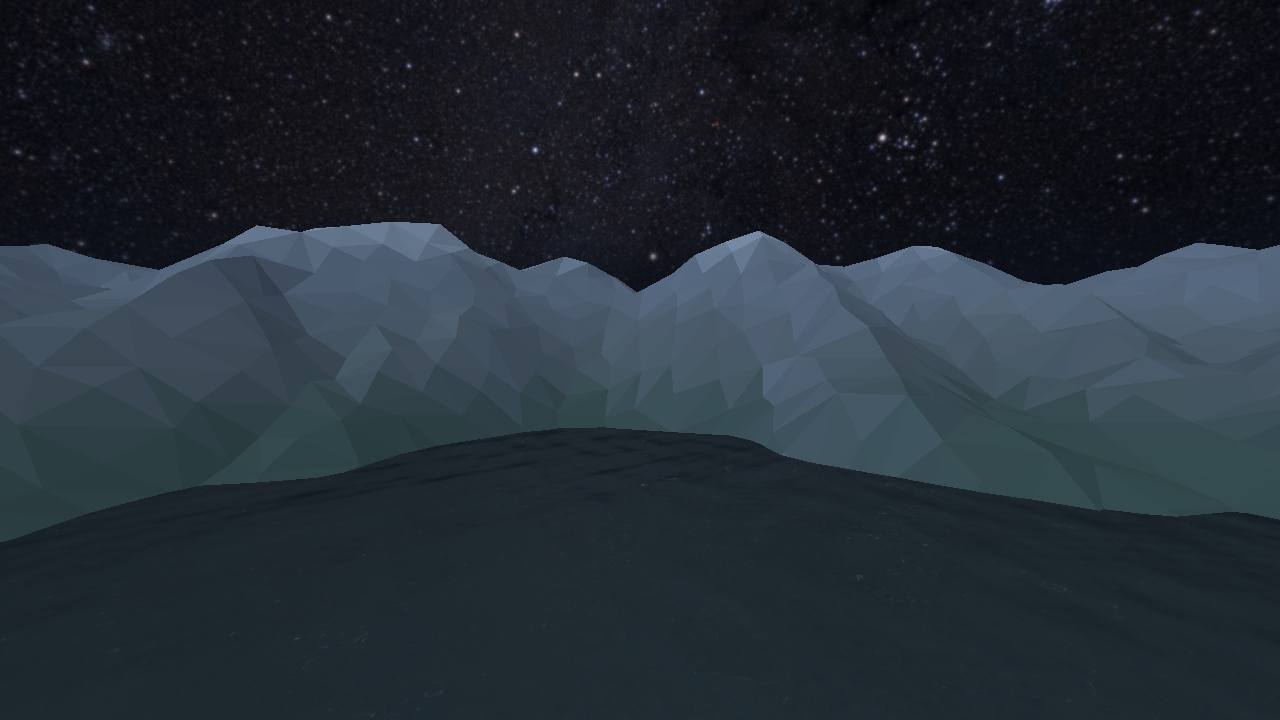
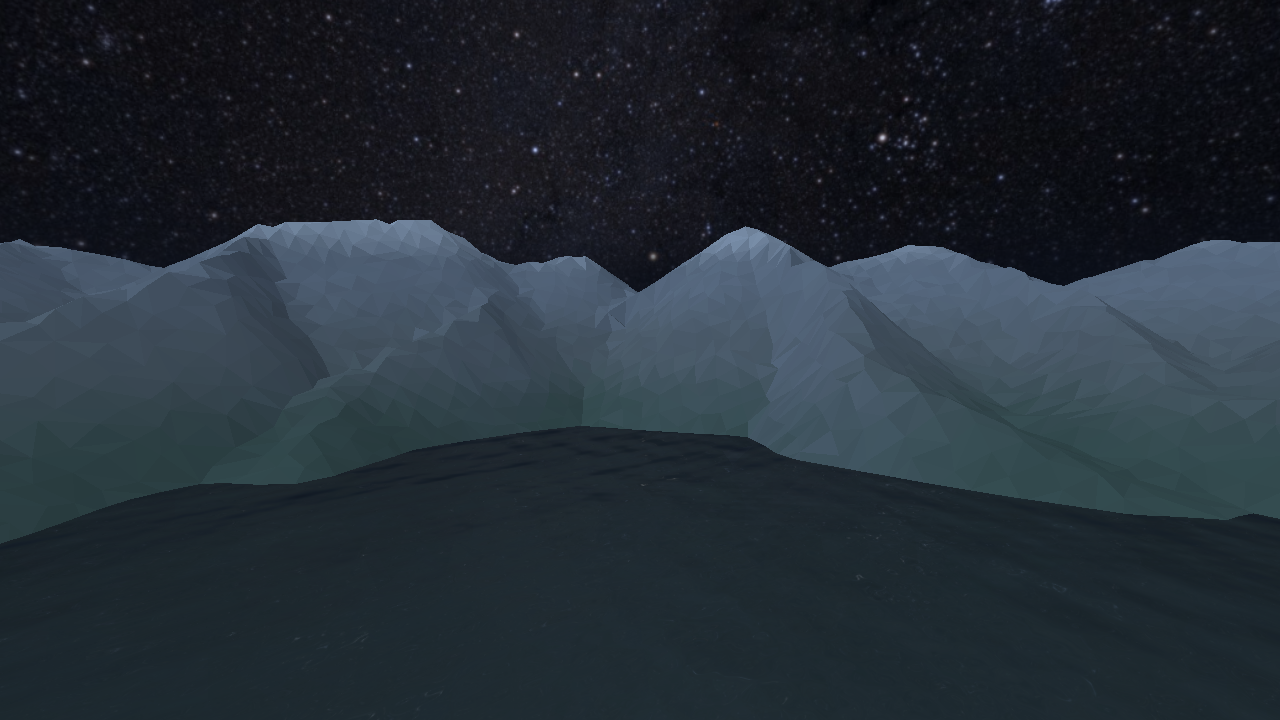
Уточнена low-poly сетка гор

diff --git a/src/Terrain.cpp b/src/Terrain.cpp
@@ -10,8 +10,9 @@ Terrain::Terrain(const std::filesystem::path& heightmap)
     : heights_(heightmap), mesh_(makeMesh(heights_)) {}
 
 Mesh Terrain::makeMesh(const Heightmap& heights) {
-    // Each coarse triangle owns its vertices: normals never blend across edges.
-    constexpr int cells = 128;
+    // Halve the former 4.375-unit cell width for finer mountain silhouettes.
+    // Each triangle still owns its vertices: normals never blend across edges.
+    constexpr int cells = 256;
     constexpr int side = cells + 1;
     const float cellSize = heights.worldSize() / cells;
     std::vector<glm::vec3> points(side * side);

diff --git a/src/Lake.h b/src/Lake.h
@@ -9,8 +9,8 @@ namespace mla {
 
 // Flat water surface filling the carved basin at world::waterLevel.
 //
-// The surface is a subset of the terrain grid: cells far from any submerged
-// sample are dropped, and the ones that remain are left to overlap the shore.
+// An independent, coarser grid samples the same height field: cells far from
+// submerged samples are dropped; the remaining ones overlap the shore.
 // The depth test clips them against the ground, so the shoreline follows the
 // terrain exactly instead of being approximated by the water mesh.
 class Lake {

diff --git a/README.md b/README.md
@@ -34,7 +34,7 @@ The current milestone is the **terrain, lake and starry sky**: a low-poly mounta
 
 - CMake builds GLFW and generated GLAD source locally; GLM and stb_image are bundled as source. No precompiled `.lib` or `.dll` files are needed.
 - OpenGL 3.3 core window, shader and indexed-mesh wrappers, fly camera, and a reusable scene-node hierarchy.
-- A 513×513 grayscale heightmap covering **560×560 world units**, sampled onto a 128×128-cell mesh with **32,768 triangles**. The larger terrain covers sixteen times the area of the initial 140×140 landscape, while coarse 4.375-unit cells preserve the low-poly look.
+- A 513×513 grayscale heightmap covering **560×560 world units**, sampled onto a 256×256-cell mesh with **131,072 triangles**. Cells are 2.1875 units wide, half the previous width, revealing more mountain detail while flat face normals preserve the low-poly look.
 - Connected mountain ridges with uneven crests, elevated saddles, shared flanks and descending spurs. Irregularly spaced interior vertices and varied triangle diagonals preserve the low-poly shapes; each triangle has its own geometric normal for flat shading.
 - Muted green foothills, grey rock and pale summits, coloured per face by height and slope under cool night ambient and directional light.
 - A lake basin carved into the valley floor, flooded to a fixed water level. The 780-triangle water surface covers only the submerged cells and is clipped against the ground by the depth test, so the shoreline follows the terrain exactly.
@@ -208,7 +208,7 @@ comp-graph-final/
 │   ├── Heightmap.h/.cpp  # image samples, height and normal lookup
 │   ├── ImageLoader.cpp   # the single stb_image implementation translation unit
 │   ├── Terrain.h/.cpp    # coarse irregular grid and flat triangle normals
-│   ├── Lake.h/.cpp       # water surface restricted to the submerged terrain cells
+│   ├── Lake.h/.cpp       # independent coarse water grid restricted to the basin
 │   ├── Skybox.h/.cpp     # owning cubemap and cube mesh, image validation
 │   ├── Aurora.h/.cpp     # deferred prototype, excluded from the application build
 │   └── Primitives.h/.cpp # deferred prop geometry, excluded from the application build
@@ -251,7 +251,7 @@ Steps 2, 3 and 4 are implemented, with the terrain, skybox and lake respectively
 
 ### Terrain from a heightmap
 
-The current asset contains 513×513 grayscale samples spanning 560×560 world units. Heights are decoded as `heightOffset + heightScale · I`, where `I` is pixel brightness in `[0, 1]`. The renderer samples this field onto 128×128 cells, with deterministic interior vertex jitter and varied diagonals, producing 32,768 triangles. Each cell remains roughly 4.375 units wide, so the expanded area keeps large, readable facets. The heightmap generator forms mountains along connected ridge lines: crest heights vary through peaks and saddles, while asymmetric flanks and descending spurs connect them into long ranges. Several overlapping ranges provide depth beyond the open central valley.
+The current asset contains 513×513 grayscale samples spanning 560×560 world units. Heights are decoded as `heightOffset + heightScale · I`, where `I` is pixel brightness in `[0, 1]`. The renderer samples this field onto 256×256 cells, with deterministic interior vertex jitter and varied diagonals, producing 131,072 triangles. Each cell is 2.1875 units wide, half the previous 4.375-unit width; triangle count is four times higher. Separate face normals retain readable low-poly facets. The heightmap generator forms mountains along connected ridge lines: crest heights vary through peaks and saddles, while asymmetric flanks and descending spurs connect them into long ranges. Several overlapping ranges provide depth beyond the open central valley.
 
 Vertices are duplicated between triangles, with one geometric normal shared by all three vertices of each face:
 
@@ -302,7 +302,7 @@ The fragment shader adds a dark blue atmosphere and fades the star map into `uFo
 
 The generator carves a lobed bowl into the valley floor and the renderer floods it to `mla::world::waterLevel`, the single constant the generator, the renderer and the tests all read. Nothing stores a shoreline: the lake is wherever the ground is below that height.
 
-The surface reuses the 128×128 terrain grid. A cell is kept when a terrain sample within one cell of it is submerged, which leaves 780 triangles instead of the grid's 32,768, and the kept cells deliberately overrun the shore. Those overlapping quads sit under the ground, so the depth test — the water pass reads depth but writes none — clips them to the exact terrain intersection. The one-cell margin covers the terrain mesh's vertex jitter and sub-cell dips that corner samples alone would miss.
+The surface uses an independent 128×128-cell grid over the same heightmap; the terrain is rendered at 256×256 cells. A water cell is kept when a heightmap sample within one coarse cell of it is submerged, leaving 780 triangles from that water grid's possible 32,768. The kept cells deliberately overrun the shore. Those overlapping quads sit under the ground, so the depth test — the water pass reads depth but writes none — clips them to the terrain intersection. The coarse one-cell margin covers the finer terrain mesh's vertex jitter and sub-cell dips that corner samples alone would miss.
 
 The mesh stays flat and every ripple comes from the fragment shader. Sixteen directional gravity-wave components combine broad undulations, finer wind ripples and weaker crossing waves. Their angular frequencies follow `ωᵢ = sqrt(9.81·kᵢ)`. Slowly advected wind patches vary their strength and gently bend their crests; moving wave-packet envelopes break up uniform bands. A mild second harmonic sharpens the crests. The normal includes the analytic gradients of the envelopes and the bounded phase bend, without displacement or per-frame uploads:
 

diff --git a/docs/ROADMAP.md b/docs/ROADMAP.md
@@ -4,7 +4,7 @@ The README preserves the final project specification. The active scene now inclu
 
 ## Current milestone: terrain, lake and starry sky
 
-The active scene renders the ground, the mountains, the starry sky and the lake. A 513×513 grayscale heightmap spans 560×560 world units, sixteen times the area of the initial landscape. A coarse, irregular 128×128-cell grid produces 32,768 triangles with roughly 4.375-unit cells, preserving the low-poly scale. Connected ridge lines, elevated saddles, asymmetric shared flanks and descending spurs form long mountain ranges around the central valley. Duplicated triangle vertices carry geometric face normals, and flat shader interpolation keeps the muted green/grey/pale colour bands and cool night lighting distinct on each facet.
+The active scene renders the ground, the mountains, the starry sky and the lake. A 513×513 grayscale heightmap spans 560×560 world units, sixteen times the area of the initial landscape. An irregular 256×256-cell grid produces 131,072 triangles with 2.1875-unit cells, half the previous cell width and four times the triangle count. Connected ridge lines, elevated saddles, asymmetric shared flanks and descending spurs form long mountain ranges around the central valley. Deterministic vertex jitter and varied diagonals break up the grid. Duplicated triangle vertices carry geometric face normals, and flat shader interpolation preserves the low-poly style and distinct muted colour bands on each facet.
 
 Smooth fog fades distant terrain from 95 to 230 units from the camera. An additional world-space fog band reaches the blue night haze colour from 205 to 260 units along either horizontal axis, before the mesh boundary at ±280. The skybox horizon and the lake use that same haze colour. Fog blends continuously across faces while the material and directional lighting remain flat.
 
@@ -20,7 +20,7 @@ The sky shader adds a dark blue atmosphere and blends the star texture into the 
 
 ### Lake
 
-The generator carves a lobed basin into the valley floor, which is why the encoded height range is now [-10, 28] rather than [-4, 28]; `mla::world::waterLevel` in `src/World.h` is the single level the generator, the renderer and the tests agree on. The water surface keeps only the terrain cells within one cell of a submerged sample — 780 triangles — and is left overlapping the shore so the depth test clips it to the exact terrain intersection. It is drawn after the terrain with alpha blending and depth writes off.
+The generator carves a lobed basin into the valley floor, which is why the encoded height range is now [-10, 28] rather than [-4, 28]; `mla::world::waterLevel` in `src/World.h` is the single level the generator, the renderer and the tests agree on. The water uses its own 128×128-cell grid, independent of the denser terrain mesh. It retains cells within one coarse cell of a submerged sample — 780 triangles — and overlaps the shore so the depth test clips it to the terrain intersection. It is drawn after the terrain with alpha blending and depth writes off.
 
 The mesh is flat; the fragment shader builds its normal from 16 directional gravity-wave components at several scales. Moving wind patches and wave-packet envelopes vary their strength, a weak bounded phase bend curves their crests, and a mild second harmonic shapes them. Analytic envelope and phase gradients keep the normals consistent; `fwidth` filtering fades subpixel waves and harmonics to reduce reflection shimmer. This is an approximate visual model without vertex displacement or per-frame uploads, not a full fluid, FFT or shoreline simulation. The conceptual reference is Mark Finch's [GPU Gems, Chapter 1](https://developer.nvidia.com/gpugems/gpugems/part-i-natural-effects/chapter-1-effective-water-simulation-physical-models); the implementation and tuning are original to this project.
 

diff --git a/docs/VALIDATION.md b/docs/VALIDATION.md
@@ -2,6 +2,27 @@
 
 Updated 2026-11-07. The current scene renders the low-poly terrain, lake and starry skybox with matching blue night haze. Aurora remains separate deferred 3D ribbon geometry; it is not part of the sky texture or active scene. Prop modules are also deferred.
 
+## Finer low-poly terrain — 2026-11-07
+
+Terrain sampling increased from 128x128 to 256x256 cells: cell width is now
+2.1875 instead of 4.375 world units, with 131,072 triangles instead of 32,768.
+Split face normals, flat material interpolation, proportional vertex jitter
+and mixed diagonals retain the low-poly style. The source heightmap is unchanged.
+The lake retains its independent 128x128 sampling grid and 780 triangles.
+
+Release and Debug previews built with MSVC 19.44 and passed the four-frame
+OpenGL smoke test on Intel Iris Xe; both CPU suites passed (2/2 each).
+The capture harness passed pause, upper-sky and
+render-state checks. Default, near-water and downward captures were reviewed:
+the mountain silhouette and facets are finer, and no shoreline coverage gaps
+were observed. `preview.png` records the new terrain at scene time 3 seconds.
+
+At 1280x720, 15 warmup plus 120 synchronized frames measured mean CPU+GPU
+serial frame latency of 6.140 ms, median 5.950 ms and p95 7.999 ms; a preceding
+128-cell run measured mean 4.723 ms. These hidden-window `glFinish` measurements
+are indicative cost evidence on this machine, not an interactive FPS benchmark.
+Historical counts and timings below refer to the earlier geometry.
+
 ## Water palette and reflection tuning — 2026-11-07
 
 Softened broad waves to 80% and fine waves toward 45% of their preceding
